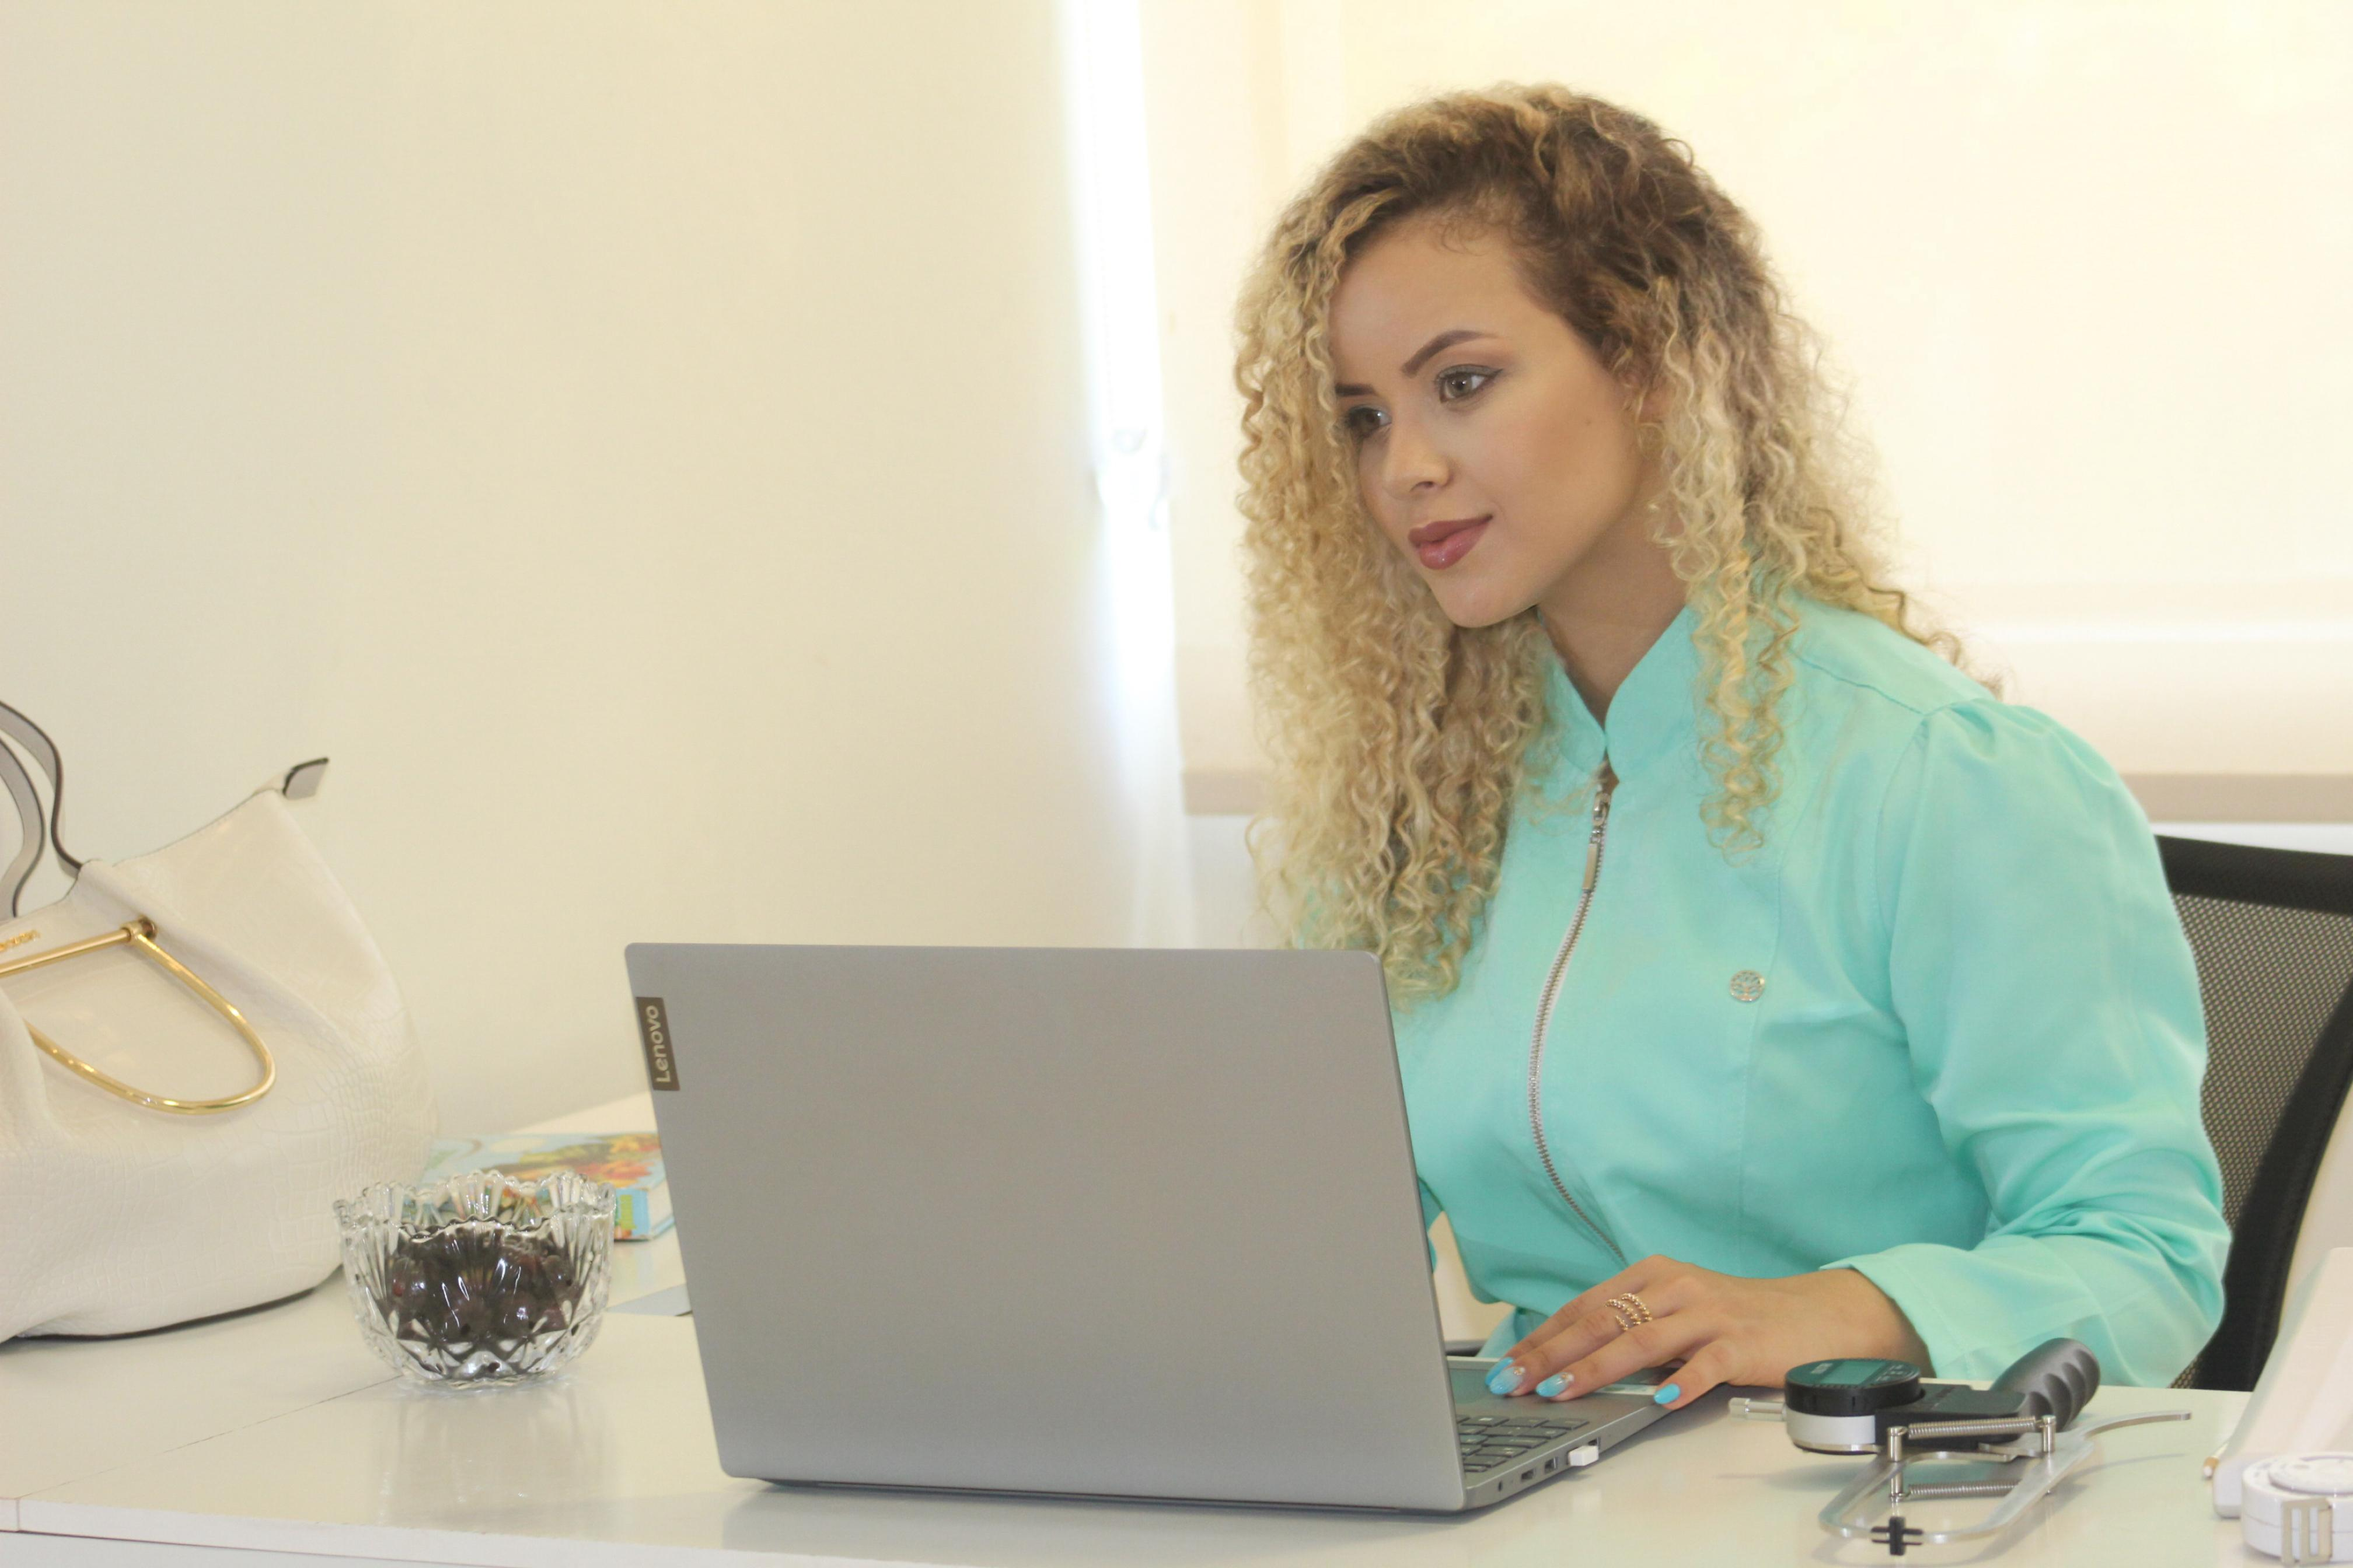
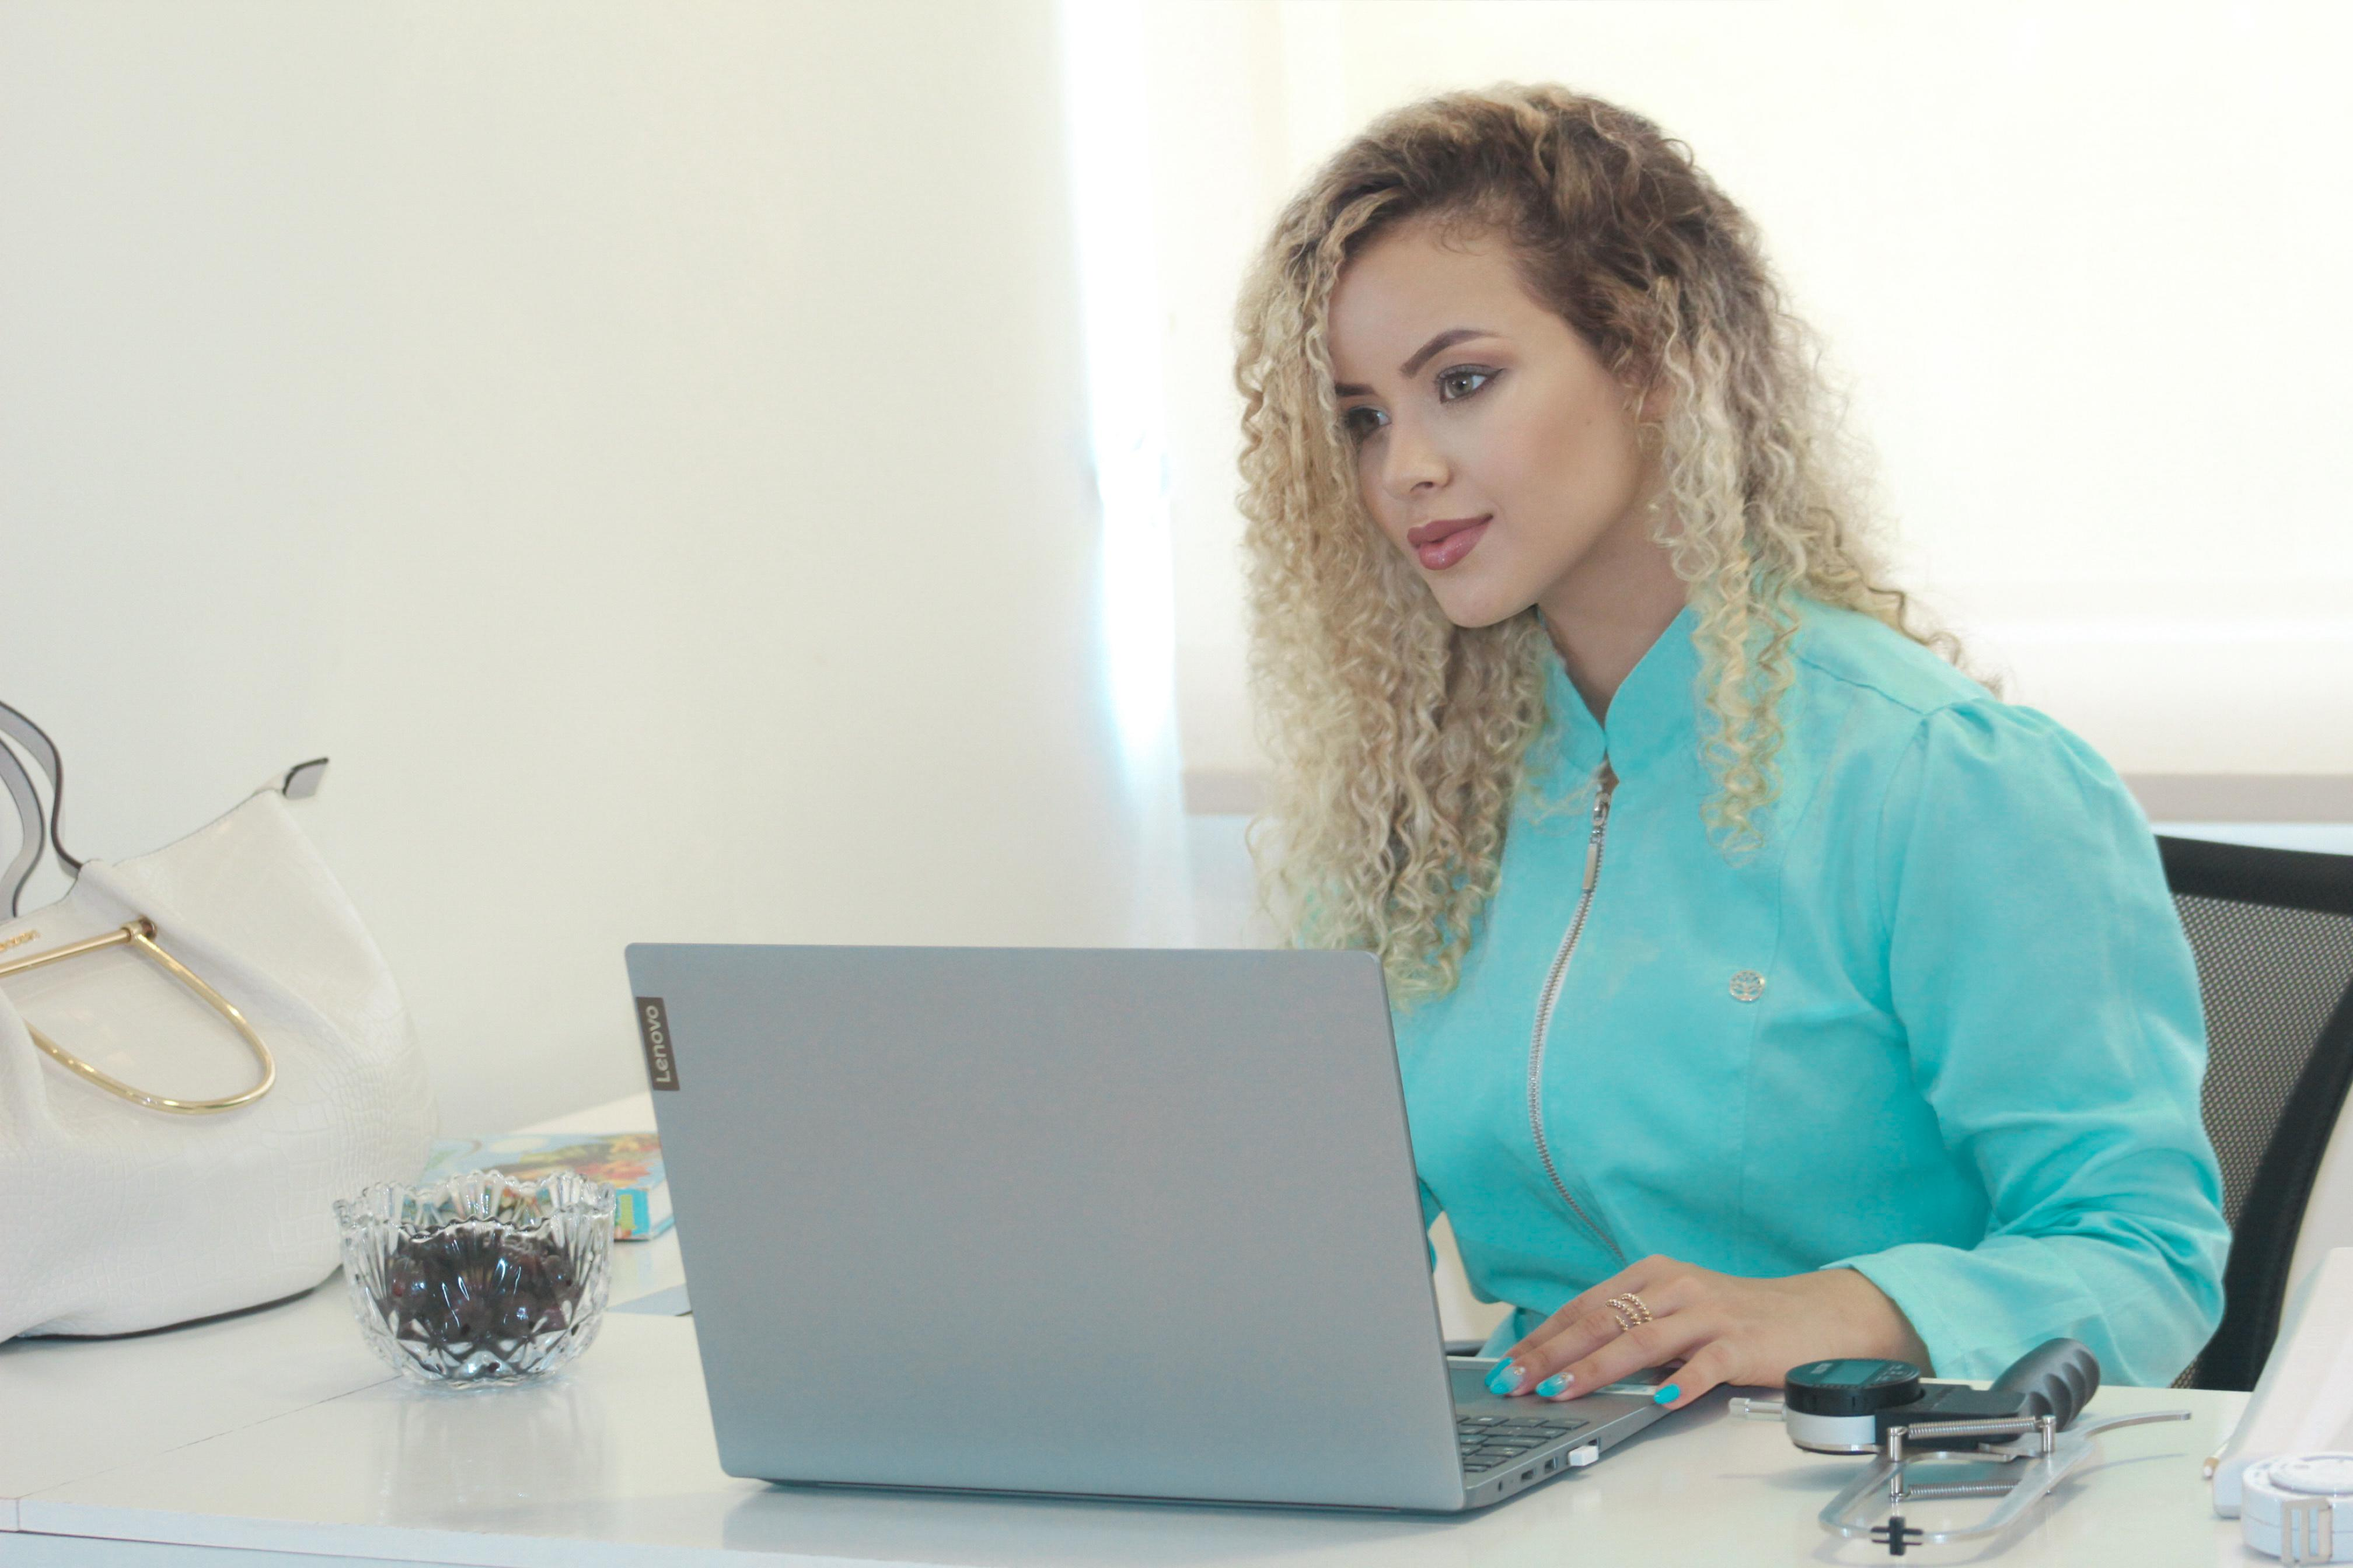
Atualização fundo body

diff --git a/styles.css b/styles.css
@@ -49,7 +49,7 @@ body {
     color: var(--text-primary);
     background-image: url(./assets/fundo.png);
     background-blend-mode: lighten;
-    background-size: cover;
+    background-size: 100% 100%;
     background-repeat: no-repeat;
     background-position: center;
     background-attachment: fixed;
